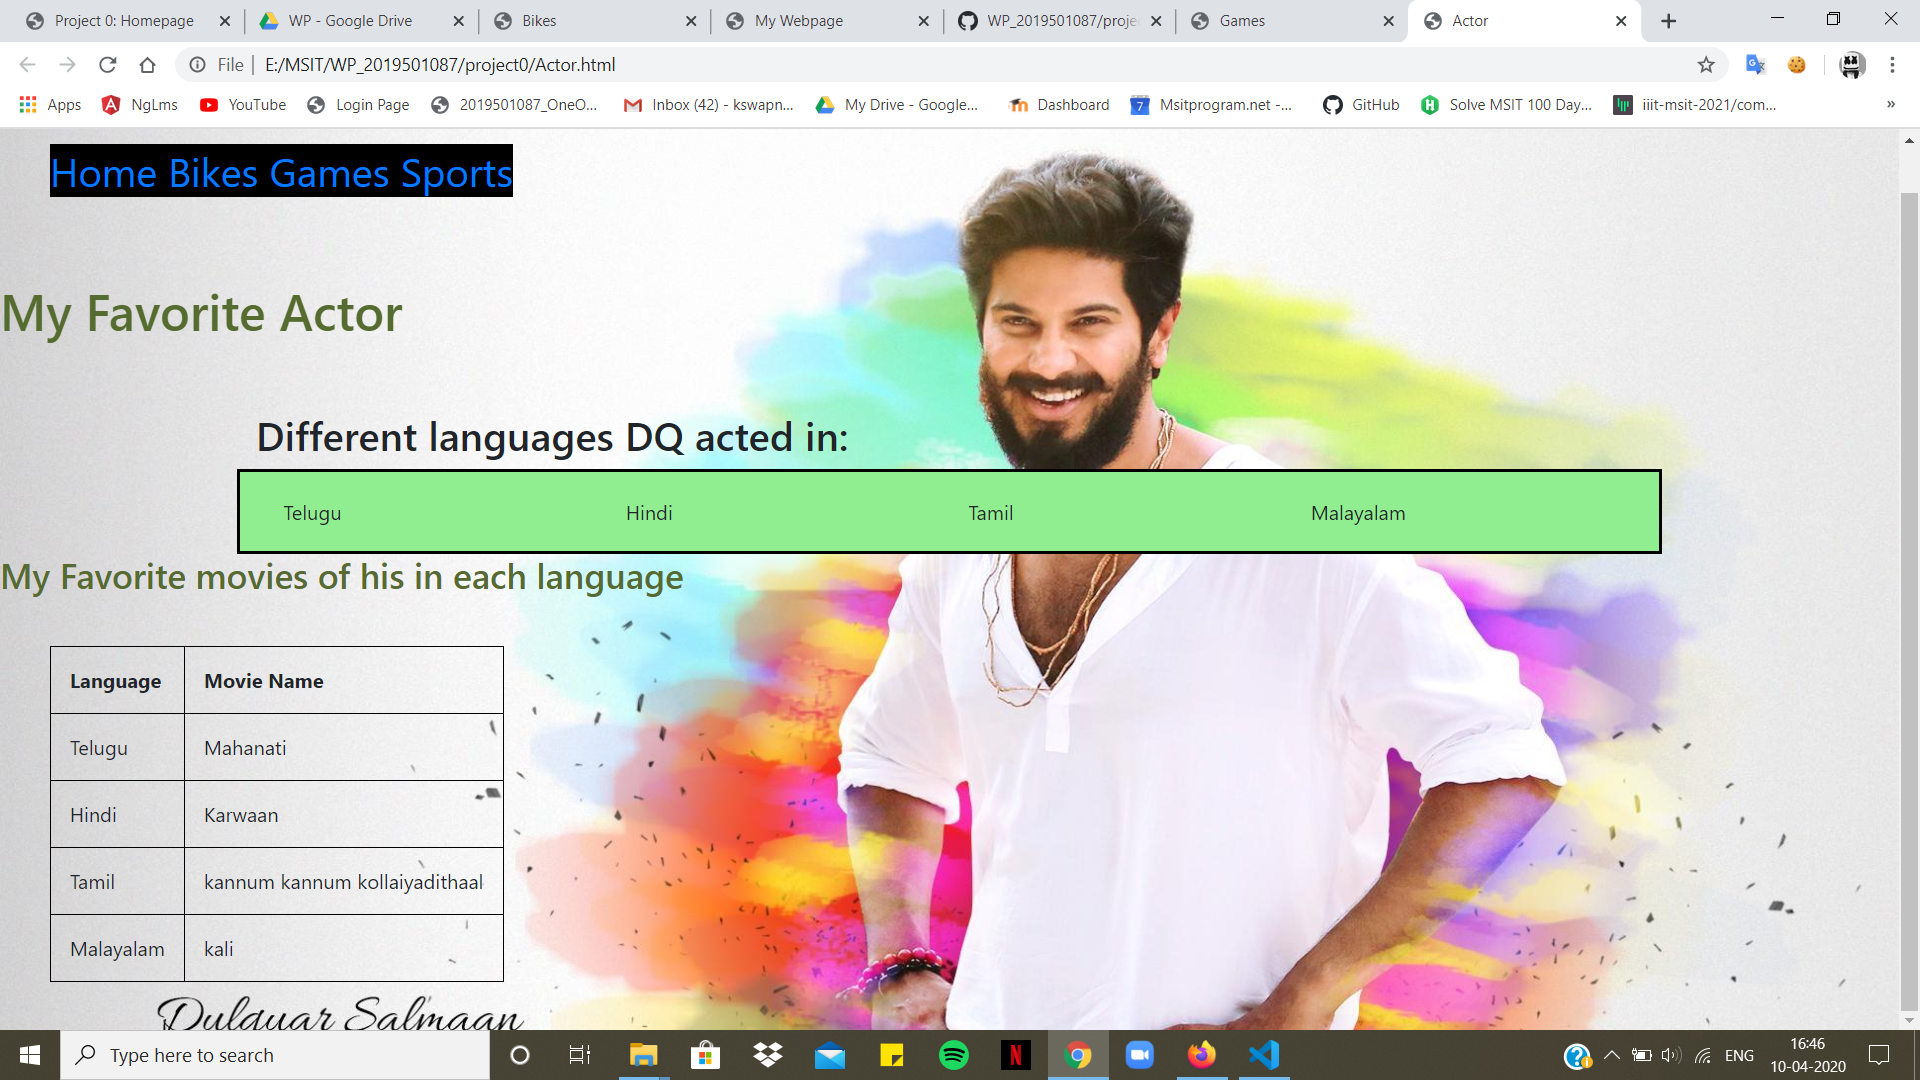
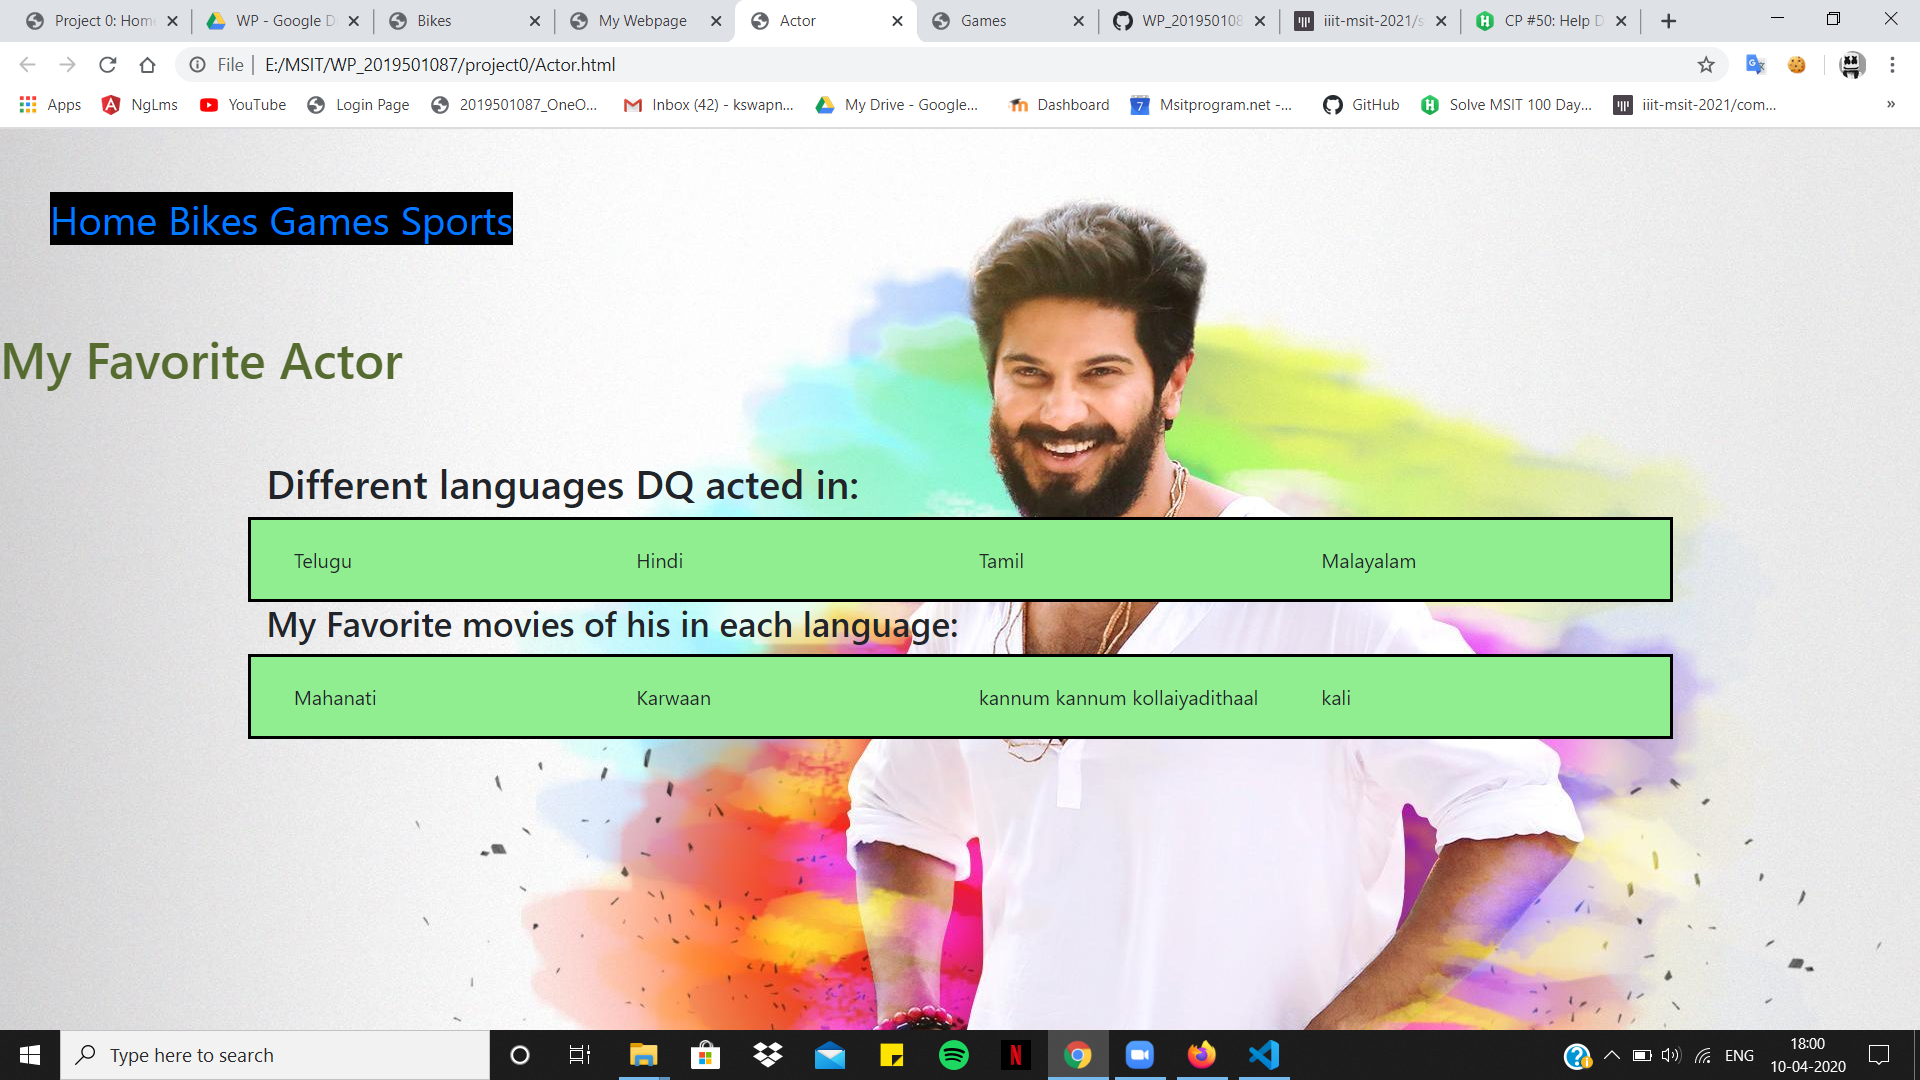
Actor page

diff --git a/project0/Actor.html b/project0/Actor.html
@@ -33,31 +33,25 @@
                 </div>
             </div>
         </div>
-        <h3 style="color: darkolivegreen;">My Favorite movies of his in each language</h3>
-        <table>
-            <tr>
-                    <th>Language</th>
-                    <th>Movie Name</th>
-            </tr>
-            <tr>
-                <td>Telugu</td>
-                <td>Mahanati</td> 
-            </tr> 
-            <tr>
-                <td>Hindi</td>
-                <td>Karwaan</td> 
-            </tr>
-
-            <tr>
-                <td>Tamil</td>
-                <td>kannum kannum kollaiyadithaal</td> 
-            </tr>
-            
-            <tr>
-                <td>Malayalam</td>
-                <td>kali</td> 
-            </tr>
-        </table>
+          <div class="container">
+            <h3>My Favorite movies of his in each language:</h3>
+        </div><div class="container">
+            <div class="row">
+                <div class="col-lg-3 col-sm-6">
+                    Mahanati
+                </div>
+                <div class="col-lg-3 col-sm-6">
+                    Karwaan
+                </div>
+                <div class="col-lg-3 col-sm-6">
+                    kannum kannum kollaiyadithaal
+                </div>
+                <div class="col-lg-3 col-sm-6">
+                    kali
+                </div>
+            </div>
+        </div>
+        
         
         
     </body>
